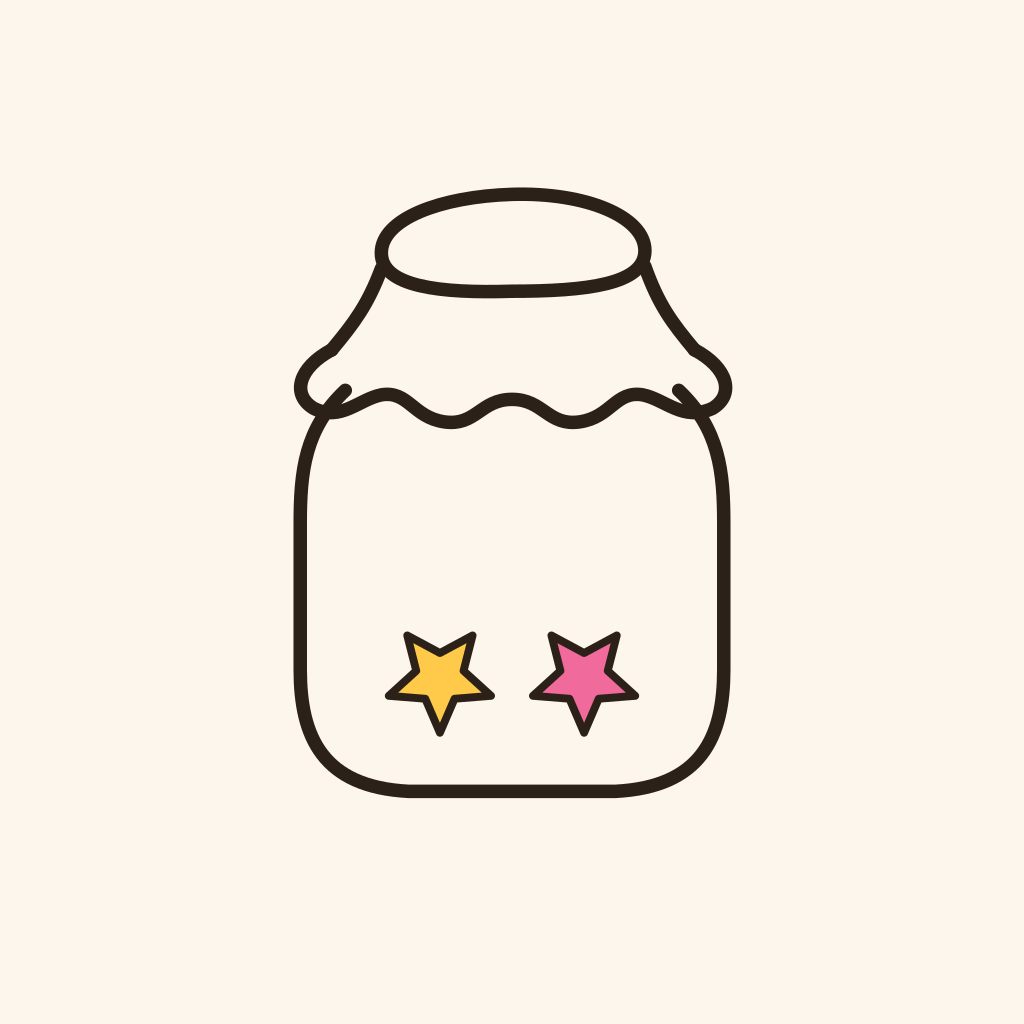
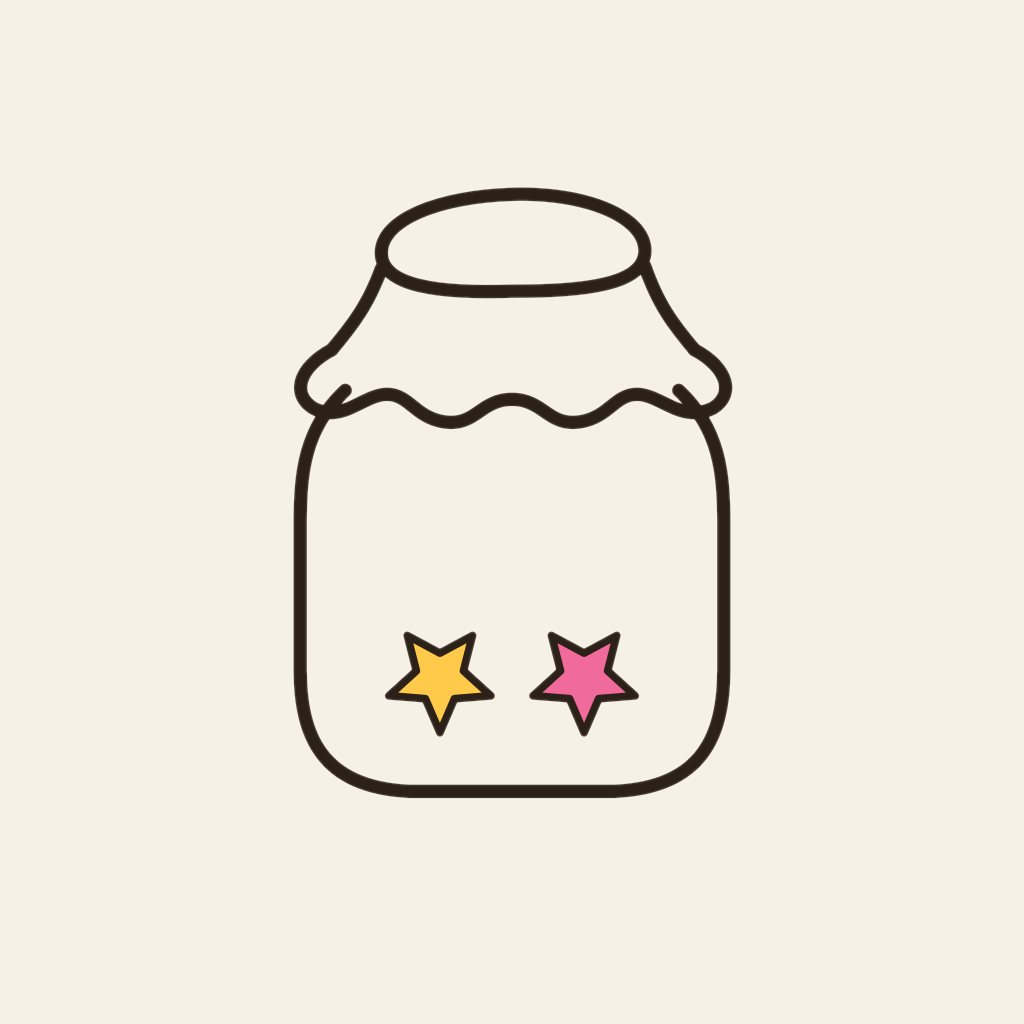
Add Crumb Near Me GitHub link, match illustration backgrounds to site bg
Recolored both project illustrations' flat backgrounds to the site's
exact cream (#f6f1e7) so the cards blend seamlessly instead of showing
a visible edge.

diff --git a/projects/crumb-near-me.html b/projects/crumb-near-me.html
@@ -34,7 +34,7 @@
   <div class="wrap project-layout">
 
     <div class="project-media">
-      <img src="../images/crumb-illustration.webp" alt="Crumb Near Me">
+      <img src="../images/crumb-illustration.webp?v=2" alt="Crumb Near Me">
       <div class="tags" style="margin-top:16px;">
         <span class="tag">RAG</span>
         <span class="tag">Qwen API</span>
@@ -52,6 +52,10 @@
       <p>Beyond the chat guide, visitors can keep a personal dessert log of what they've tried — with photos, ratings, and notes — plus a separate wishlist for places they still want to visit, and get a short taste-summary auto-generated from their own logged entries. They can also leave community notes on a place: freeform tips like a closure or a menu change. These stay explicitly separate from the curated knowledge base, and the agent discloses them as unverified rather than treating them as grounded fact. Accounts run on Supabase Auth, with a guest mode for anyone who doesn't want to sign up.</p>
 
       <a class="cta-button" href="https://crumbnearme.com" target="_blank" rel="noopener">View Live Project ↗</a>
+
+      <div style="margin-top:14px;">
+        <a href="https://github.com/gracesheng444-ui/crumb-near-me" target="_blank" rel="noopener" style="color:var(--accent); font-weight:600; font-size:0.95rem;">View on GitHub ↗</a>
+      </div>
     </div>
 
   </div>

diff --git a/index.html b/index.html
@@ -49,7 +49,7 @@
     <div class="project-grid">
 
       <a class="project-card" href="projects/shared-memory-jar.html">
-        <div class="project-card-image" style="background-image:url('images/jar-illustration.png');"></div>
+        <div class="project-card-image" style="background-image:url('images/jar-illustration.png?v=2');"></div>
         <div class="project-card-body">
           <h3>Shared Memory Jar</h3>
           <p>A daily-connection app for people staying close across distance</p>
@@ -58,7 +58,7 @@
       </a>
 
       <a class="project-card" href="projects/crumb-near-me.html">
-        <div class="project-card-image" style="background-image:url('images/crumb-illustration.webp');"></div>
+        <div class="project-card-image" style="background-image:url('images/crumb-illustration.webp?v=2');"></div>
         <div class="project-card-body">
           <h3>Crumb Near Me</h3>
           <p>Bilingual AI dessert guide for Shanghai, with a personal log and community notes</p>
